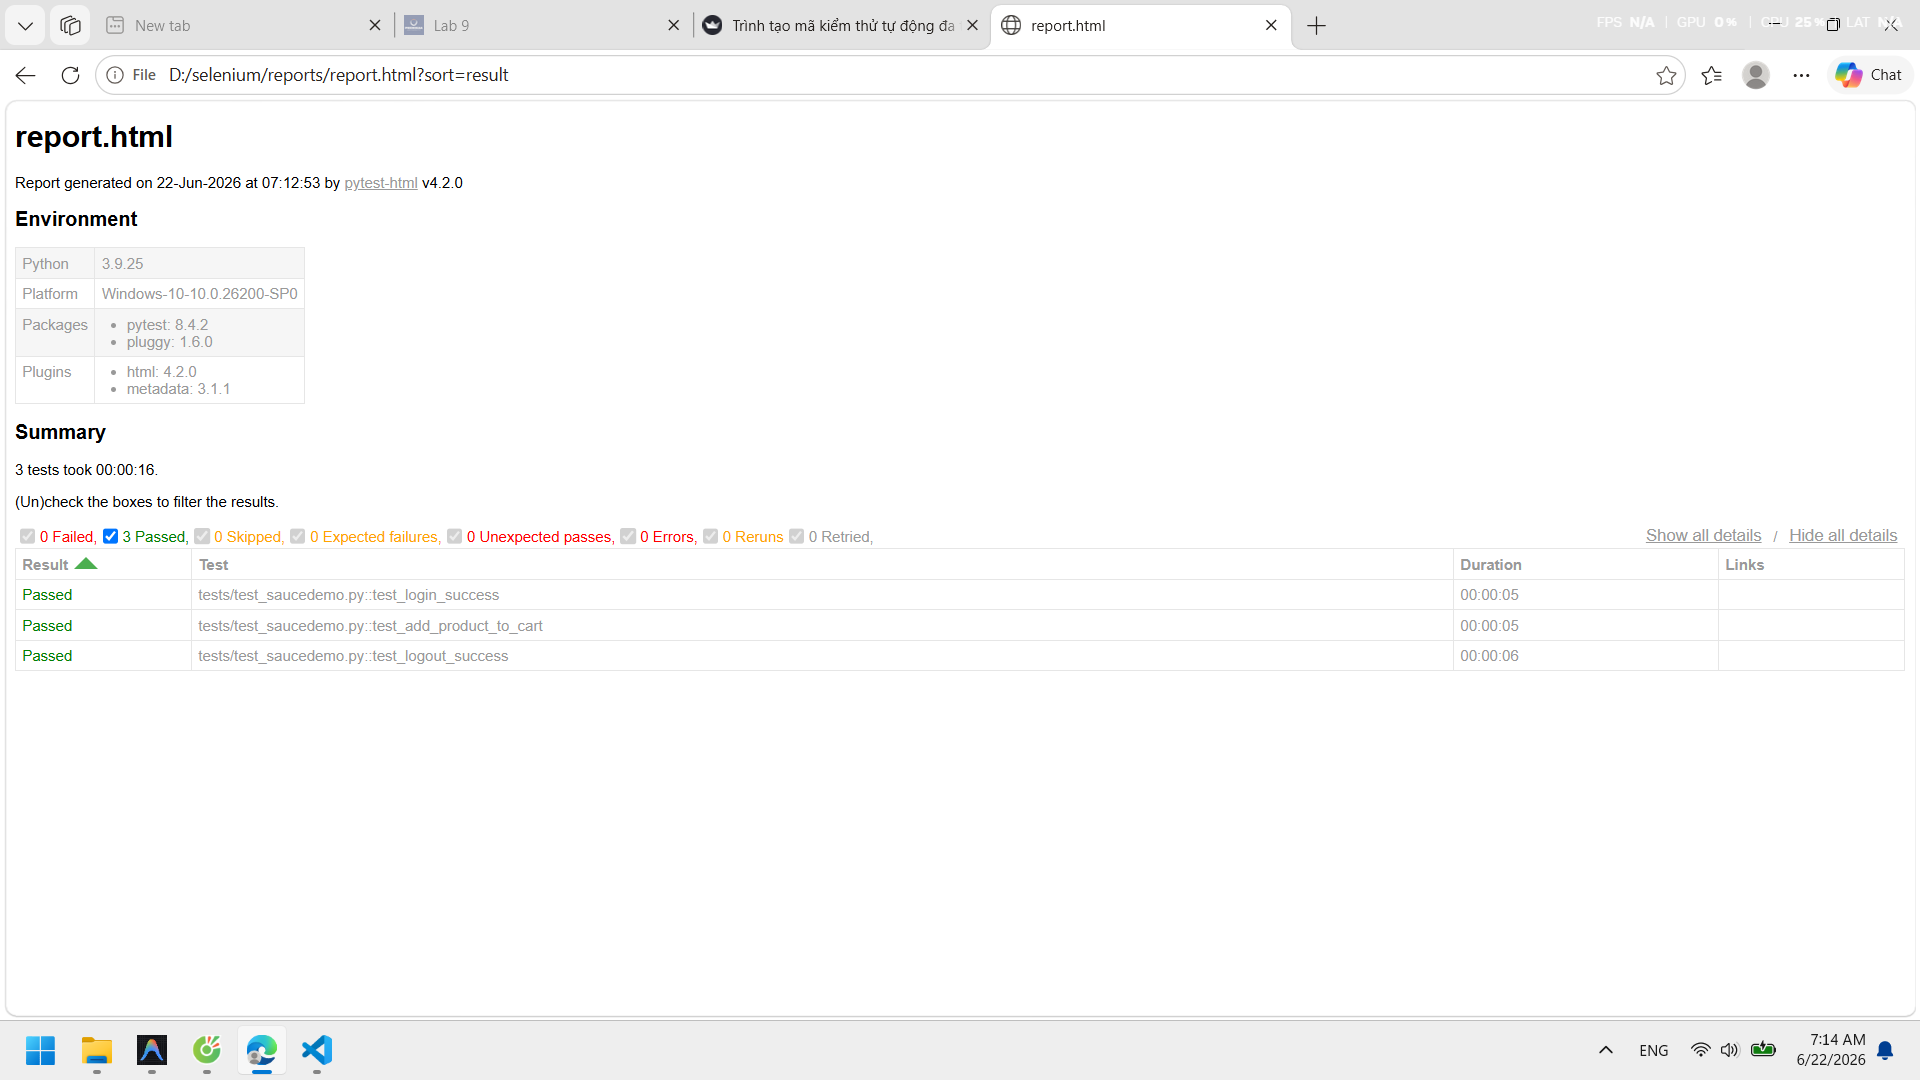
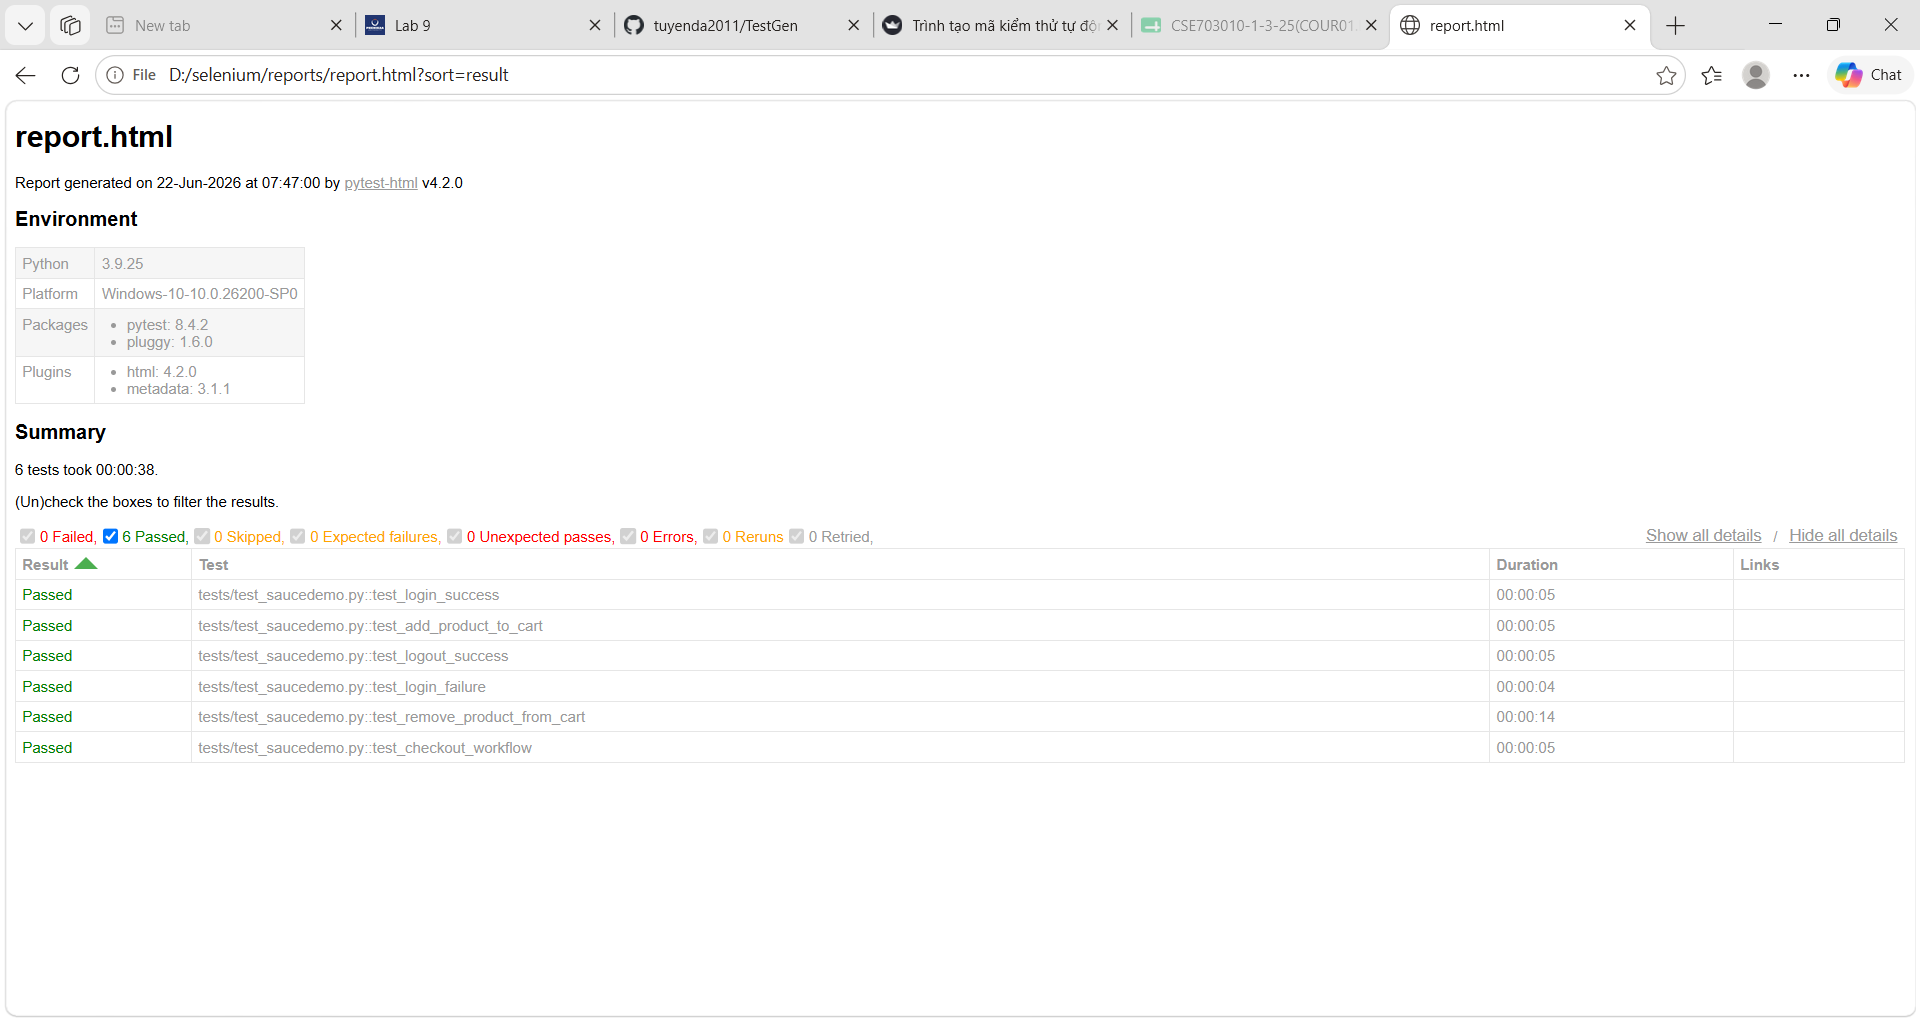
update

diff --git a/tests/test_saucedemo.py b/tests/test_saucedemo.py
@@ -81,3 +81,64 @@ def test_logout_success(driver):
 
     assert username_input.is_displayed()
     assert driver.current_url == BASE_URL
+
+
+def test_login_failure(driver):
+    """TC04: Kiểm thử đăng nhập thất bại với sai mật khẩu."""
+    driver.get(BASE_URL)
+    wait = WebDriverWait(driver, 10)
+
+    username_input = wait.until(EC.visibility_of_element_located((By.ID, "user-name")))
+    username_input.clear()
+    username_input.send_keys(USERNAME)
+
+    password_input = driver.find_element(By.ID, "password")
+    password_input.clear()
+    password_input.send_keys("wrong_password")
+
+    driver.find_element(By.ID, "login-button").click()
+
+    error_message = wait.until(
+        EC.visibility_of_element_located((By.CSS_SELECTOR, "[data-test='error']"))
+    )
+    assert "Username and password do not match any user in this service" in error_message.text
+
+
+def test_remove_product_from_cart(driver):
+    """TC05: Kiểm thử xóa sản phẩm khỏi giỏ hàng."""
+    login(driver)
+    wait = WebDriverWait(driver, 10)
+
+    driver.find_element(By.ID, "add-to-cart-sauce-labs-backpack").click()
+
+    cart_badge = wait.until(
+        EC.visibility_of_element_located((By.CLASS_NAME, "shopping_cart_badge"))
+    )
+    assert cart_badge.text == "1"
+
+    driver.find_element(By.ID, "remove-sauce-labs-backpack").click()
+
+    wait.until(EC.invisibility_of_element_located((By.CLASS_NAME, "shopping_cart_badge")))
+    badges = driver.find_elements(By.CLASS_NAME, "shopping_cart_badge")
+    assert len(badges) == 0
+
+
+def test_checkout_workflow(driver):
+    """TC06: Kiểm thử quy trình thanh toán (Checkout)."""
+    login(driver)
+    wait = WebDriverWait(driver, 10)
+
+    driver.find_element(By.ID, "add-to-cart-sauce-labs-backpack").click()
+    driver.find_element(By.CLASS_NAME, "shopping_cart_link").click()
+
+    wait.until(EC.element_to_be_clickable((By.ID, "checkout"))).click()
+
+    wait.until(EC.visibility_of_element_located((By.ID, "first-name"))).send_keys("Test")
+    driver.find_element(By.ID, "last-name").send_keys("User")
+    driver.find_element(By.ID, "postal-code").send_keys("12345")
+
+    driver.find_element(By.ID, "continue").click()
+
+    wait.until(EC.url_contains("checkout-step-two.html"))
+    summary_total_label = driver.find_element(By.CLASS_NAME, "summary_total_label")
+    assert "Total" in summary_total_label.text